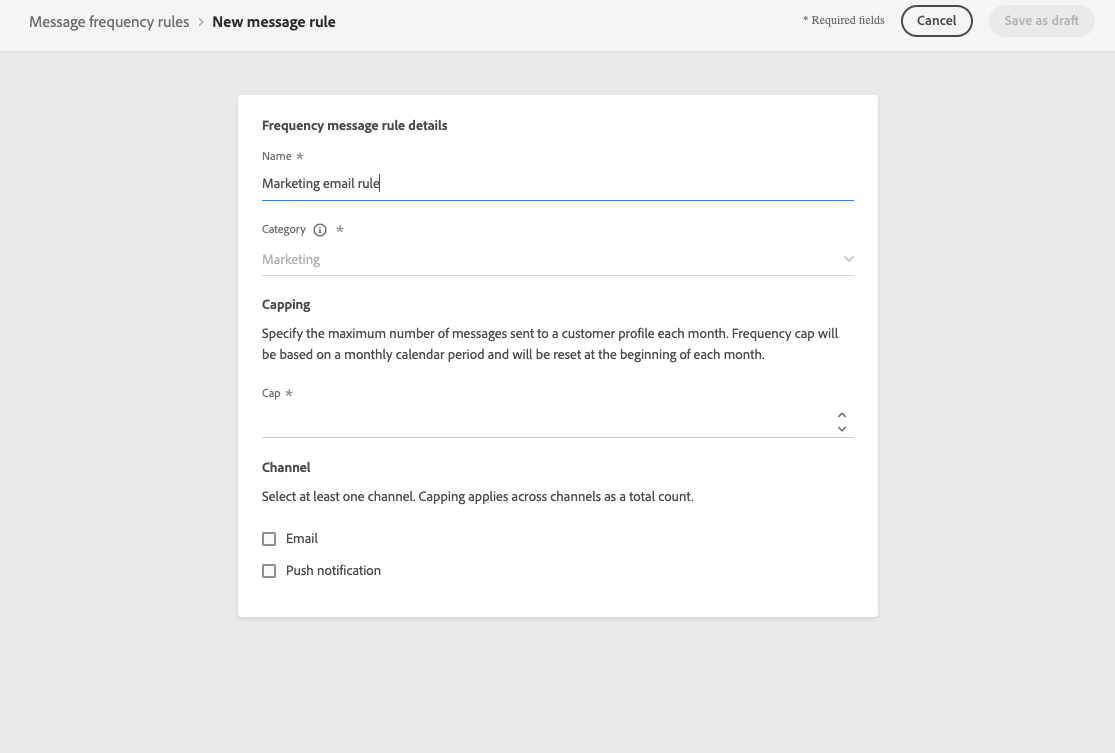
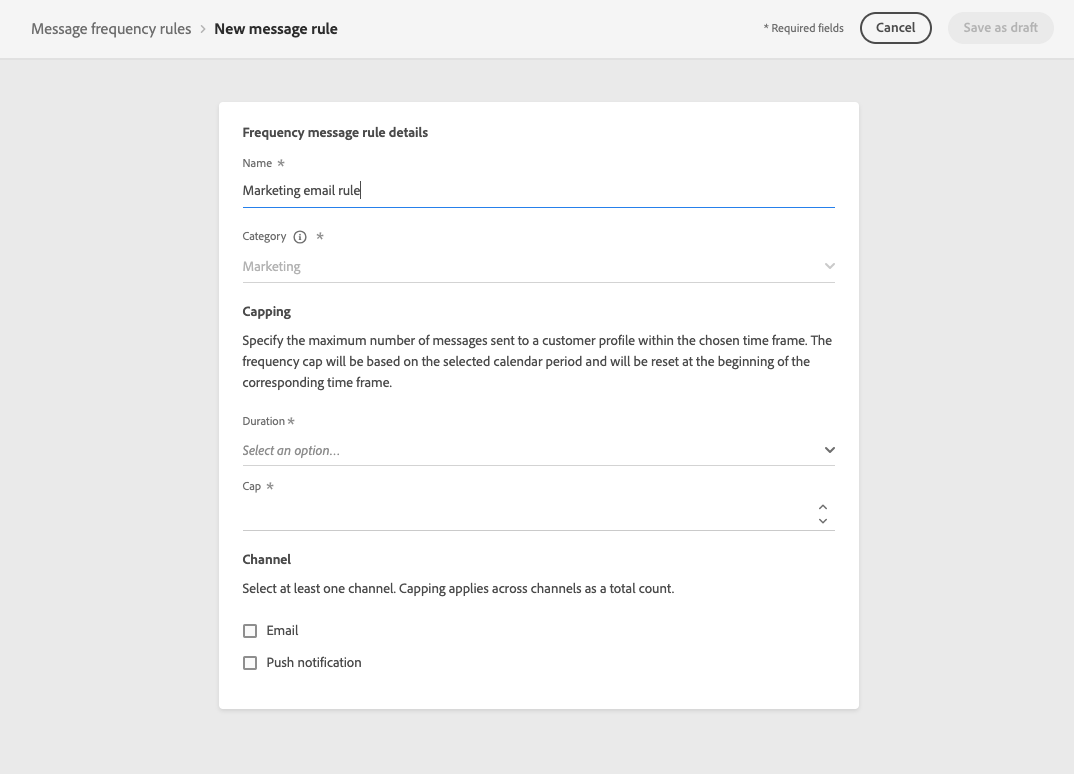
frequency rules periods update

diff --git a/help/using/configuration/frequency-rules.md b/help/using/configuration/frequency-rules.md
@@ -73,13 +73,27 @@ To create a new rule, follow the steps below.
    >
    >Currently only the **[!UICONTROL Marketing]** category is available.
 
-1. Set the capping for your rule, meaning the maximum number of messages that can be sent to an individual user profile each month.
+1. Select a time frame for the capping to be applied.
 
-   ![](assets/message-rules-capping.png)
+   ![](assets/message-rules-capping-duration.png)
+
+   Frequency cap is based on the selected calendar period. It is reset at the beginning of the corresponding time frame.
+
+   The expiry of the counter for each period is as follows:
+
+   * **[!UICONTROL Daily]**: The frequency cap is valid for the day until 23:59:59 UTC and resets to 0 at the start of the next day.
+
+   * **[!UICONTROL Weekly]**: The frequency cap is valid until Saturday 23:59:59 UTC of that week as the calendar week starts on Sunday. The expiry is irrespective of the rule creation. For example, if the rule is created on Thursday, this rule is valid until Saturday at 23:59:59.
+   
+   * **[!UICONTROL Monthly]**: The frequency cap is valid until the last day of the month at 23:59:59 UTC. For example, the monthly expiration for January is 01-31 23:59:59 UTC.
 
    >[!NOTE]
    >
-   >Frequency cap is based on a monthly calendar period. It is reset at the beginning of each month.
+   >When dealing with [batch segmentation](https://experienceleague.adobe.com/docs/experience-platform/segmentation/home.html#batch){target="_blank"}, the daily counters may not accurately reflect the current values as the daily counter snapshot is taken at midnight UTC the night before. Consequently, relying on daily counters in this scenario becomes impractical, as the snapshot does not reflect the most up-to-date counter values on the profile. To ensure accuracy for daily frequency capping rules, the use of [streaming segmentation](https://experienceleague.adobe.com/docs/experience-platform/segmentation/ui/streaming-segmentation.html){target="_blank"} is recommended. <!--Learn more on audience evaluation methods in [this section](using/audience/about-audiences.md#evaluation-method-in-journey-optimizer).-->
+
+1. Set the capping for your rule, meaning the maximum number of messages that can be sent to an individual user profile each month, week, or day - according to your selection above.
+
+   ![](assets/message-rules-capping.png)
 
 1. Select the channel you want to use for this rule: **[!UICONTROL Email]** or **[!UICONTROL Push notification]**.
 
@@ -91,7 +105,7 @@ To create a new rule, follow the steps below.
 
 1. Select several channels if you want to apply capping across all selected channels as a total count.
 
-   For example, set capping to 15, and select both the email and push channels. If a profile has already received 10 marketing emails and 5 marketing push notifications, this profile will be excluded from the very next delivery of any marketing email or push notification.
+   For example, set capping to 15, and select both the email and push channels. If a profile has already received 10 marketing emails and 5 marketing push notifications for the selected period, this profile will be excluded from the very next delivery of any marketing email or push notification.
 
 1. Click **[!UICONTROL Save as draft]** to confirm the rule creation. Your message is added to the rule list, with the **[!UICONTROL Draft]** status.
 
